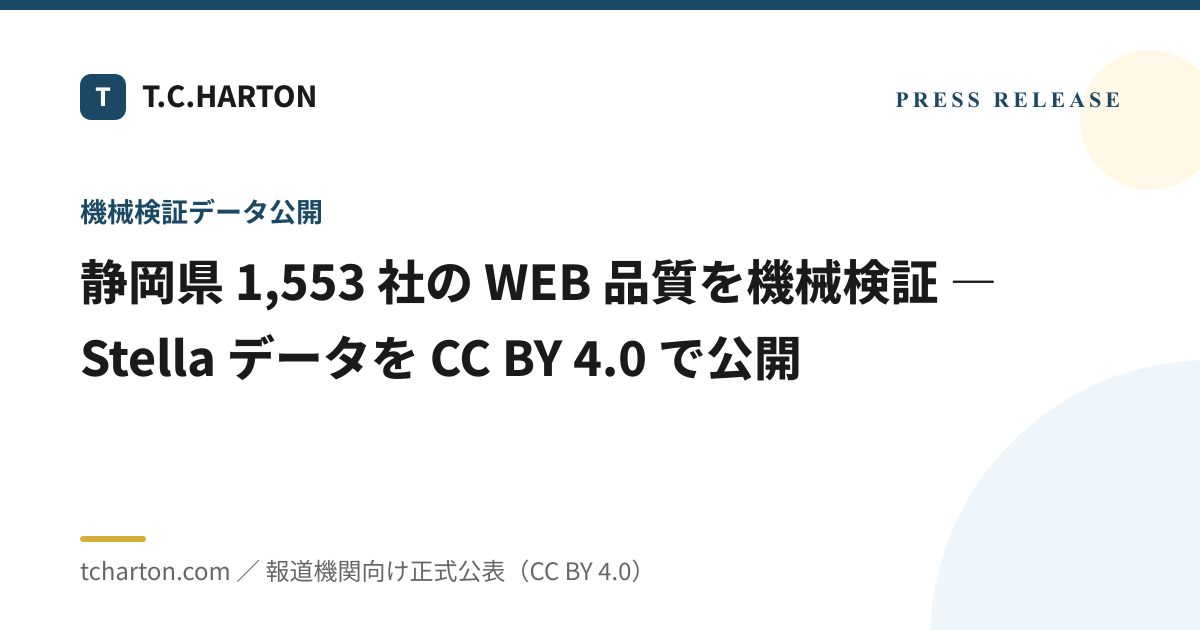
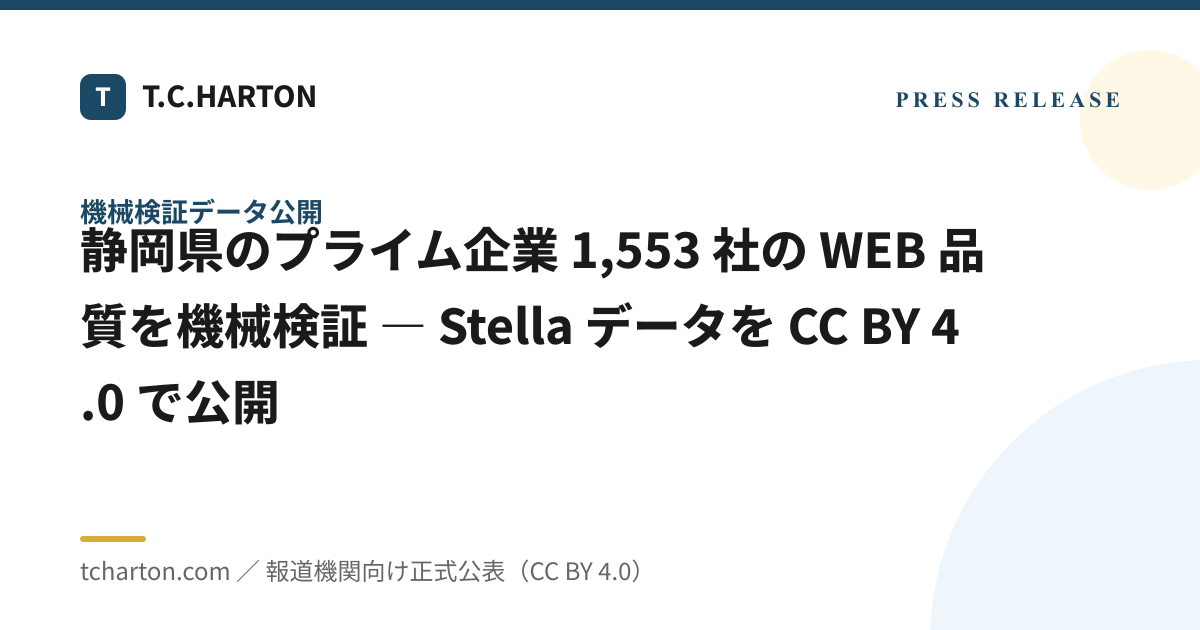
fix(content): プレスリリース 1,553 = プライム抽出 明示 + 壊れた Insights リンク 全修正
代表指摘の 2 点を正確に修正：

## 1. プレスリリース：1,553 社 = プライム企業数の明記
- 「静岡県内 11 業種 1,553 社」→「静岡県内 11 業種から抽出したプライム（主要）企業 1,553 社」
- title / description / og:* / twitter:* / NewsArticle JSON-LD / Dataset JSON-LD
  パンくず / hero h1 / 結論ボックス / 本文 / 公開データ説明 すべて整合
- ハブ /press/ のカードも同期修正
- OGP 画像も再生成（タイトル変更反映）
- プライム抽出の定義も併記（各業種で一定の事業規模・知名度を満たす主要企業）

## 2. 壊れた Insights リンク 全修正（404 解消）
代表指摘のスクリーンショット (Numazu LP) は「local-seo-for-shizuoka」が 404。
Areas 全 7 都市 + problems/no-mobile に同様の存在しない slug が散在していた。
実在する Insights 31 記事の slug に置き換え：

- local-seo-for-shizuoka  → local-seo-guide
- web-for-shop-owners     → longtail-seo
- mobile-first-design     → accessibility-wcag22
- core-web-vitals-2025    → core-web-vitals
- image-format-optimization → image-font-optimization
- wcag-22-quick-start     → accessibility-wcag22

修正ファイル：
- gen-areas.js（テンプレ）+ areas/{6 cities} 再生成
- areas/numazu/index.html（手書きを直接修正）
- problems/no-mobile/index.html（4 リンク修正）

機械検証：全 18 種の /insights/ リンクが実在ファイルに解決することを確認済。

spec-checker: PASS:9473 / FAIL:0 / 100% S-RANK 維持

Changed region(s): [[0.0617, 0.3619, 0.8325, 0.6937]]

diff --git a/press/2026-05-stella-shizuoka-1553/index.html b/press/2026-05-stella-shizuoka-1553/index.html
@@ -4,25 +4,25 @@
   <meta charset="UTF-8">
   <meta name="viewport" content="width=device-width, initial-scale=1.0">
   <script src="/dist/scripts/js-marker.js?v=202605120100"></script>
-  <title>静岡県 1,553 社の WEB 品質を機械検証 — Stella データを CC BY 4.0 で公開｜T.C.HARTON プレスリリース</title>
-  <meta name="description" content="沼津市の T.C.HARTON は、静岡県内 11 業種 1,553 社の WEB サイト品質を 4 軸機械検証した結果を、Stella サブセクション内で CC BY 4.0 ライセンスで公開しました。中央スコア・業種別中央値・致命的 NG 比率を集計データとして提供します。">
+  <title>静岡県のプライム企業 1,553 社の WEB 品質を機械検証 — Stella データを CC BY 4.0 で公開｜T.C.HARTON プレスリリース</title>
+  <meta name="description" content="沼津市の T.C.HARTON は、静岡県内 11 業種から抽出したプライム（主要）企業 1,553 社の WEB サイト品質を 4 軸機械検証した結果を、Stella サブセクション内で CC BY 4.0 ライセンスで公開しました。中央スコア・業種別中央値・致命的 NG 比率を集計データとして提供します。">
   <meta name="author" content="大内 達也">
 
-  <meta property="og:title" content="静岡県 1,553 社の WEB 品質を機械検証 — Stella データを CC BY 4.0 で公開｜T.C.HARTON プレスリリース">
-  <meta property="og:description" content="沼津市の T.C.HARTON は、静岡県内 11 業種 1,553 社の WEB サイト品質を 4 軸機械検証した結果を、Stella サブセクション内で CC BY 4.0 ライセンスで公開しました。中央スコア・業種別中央値・致命的 NG 比率を集計データとして提供します。">
+  <meta property="og:title" content="静岡県のプライム企業 1,553 社の WEB 品質を機械検証 — Stella データを CC BY 4.0 で公開｜T.C.HARTON プレスリリース">
+  <meta property="og:description" content="沼津市の T.C.HARTON は、静岡県内 11 業種から抽出したプライム（主要）企業 1,553 社の WEB サイト品質を 4 軸機械検証した結果を、Stella サブセクション内で CC BY 4.0 ライセンスで公開しました。中央スコア・業種別中央値・致命的 NG 比率を集計データとして提供します。">
   <meta property="og:type" content="article">
   <meta property="og:url" content="https://tcharton.com/press/2026-05-stella-shizuoka-1553/">
   <meta property="og:image" content="https://tcharton.com/press/2026-05-stella-shizuoka-1553/ogp.png">
   <meta property="og:image:width" content="1200">
   <meta property="og:image:height" content="630">
   <meta property="og:image:type" content="image/png">
-  <meta property="og:image:alt" content="静岡県 1,553 社の WEB 品質機械検証結果公開 — T.C.HARTON Press Release">
+  <meta property="og:image:alt" content="静岡県のプライム企業 1,553 社の WEB 品質機械検証結果公開 — T.C.HARTON Press Release">
   <meta property="og:site_name" content="T.C.HARTON">
   <meta property="og:locale" content="ja_JP">
 
   <meta name="twitter:card" content="summary_large_image">
-  <meta name="twitter:title" content="静岡県 1,553 社の WEB 品質を機械検証 — Stella データを CC BY 4.0 で公開｜T.C.HARTON プレスリリース">
-  <meta name="twitter:description" content="沼津市の T.C.HARTON は、静岡県内 11 業種 1,553 社の WEB サイト品質を 4 軸機械検証した結果を、Stella サブセクション内で CC BY 4.0 ライセンスで公開しました。">
+  <meta name="twitter:title" content="静岡県のプライム企業 1,553 社の WEB 品質を機械検証 — Stella データを CC BY 4.0 で公開｜T.C.HARTON プレスリリース">
+  <meta name="twitter:description" content="沼津市の T.C.HARTON は、静岡県内 11 業種から抽出したプライム（主要）企業 1,553 社の WEB サイト品質を 4 軸機械検証した結果を、Stella サブセクション内で CC BY 4.0 ライセンスで公開しました。">
   <meta name="twitter:image" content="https://tcharton.com/press/2026-05-stella-shizuoka-1553/ogp.png">
 
   <meta name="theme-color" content="#FFFFFF">
@@ -43,14 +43,14 @@
   {"@context":"https://schema.org","@type":"BreadcrumbList","itemListElement":[
     {"@type":"ListItem","position":1,"name":"ホーム","item":"https://tcharton.com/"},
     {"@type":"ListItem","position":2,"name":"プレスリリース","item":"https://tcharton.com/press/"},
-    {"@type":"ListItem","position":3,"name":"静岡県 1,553 社の WEB 品質を機械検証 — Stella データを CC BY 4.0 で公開","item":"https://tcharton.com/press/2026-05-stella-shizuoka-1553/"}
+    {"@type":"ListItem","position":3,"name":"静岡県のプライム企業 1,553 社の WEB 品質を機械検証 — Stella データを CC BY 4.0 で公開","item":"https://tcharton.com/press/2026-05-stella-shizuoka-1553/"}
   ]}
   </script>
   <script type="application/ld+json">
-  {"@context":"https://schema.org","@type":"NewsArticle","@id":"https://tcharton.com/press/2026-05-stella-shizuoka-1553/#newsarticle","headline":"静岡県 1,553 社の WEB 品質を機械検証 — Stella データを CC BY 4.0 で公開","description":"沼津市の T.C.HARTON は、静岡県内 11 業種 1,553 社の WEB サイト品質を 4 軸機械検証した結果を、Stella サブセクション内で CC BY 4.0 ライセンスで公開しました。中央スコア・業種別中央値・致命的 NG 比率を集計データとして提供します。","datePublished":"2026-05-15T10:00:00+09:00","dateModified":"2026-05-15T10:00:00+09:00","author":{"@type":"Organization","name":"T.C.HARTON","url":"https://tcharton.com/"},"publisher":{"@id":"https://tcharton.com/#organization"},"image":"https://tcharton.com/press/2026-05-stella-shizuoka-1553/ogp.png","url":"https://tcharton.com/press/2026-05-stella-shizuoka-1553/","mainEntityOfPage":"https://tcharton.com/press/2026-05-stella-shizuoka-1553/","articleSection":"プレスリリース","inLanguage":"ja"}
+  {"@context":"https://schema.org","@type":"NewsArticle","@id":"https://tcharton.com/press/2026-05-stella-shizuoka-1553/#newsarticle","headline":"静岡県のプライム企業 1,553 社の WEB 品質を機械検証 — Stella データを CC BY 4.0 で公開","description":"沼津市の T.C.HARTON は、静岡県内 11 業種から抽出したプライム（主要）企業 1,553 社の WEB サイト品質を 4 軸機械検証した結果を、Stella サブセクション内で CC BY 4.0 ライセンスで公開しました。中央スコア・業種別中央値・致命的 NG 比率を集計データとして提供します。","datePublished":"2026-05-15T10:00:00+09:00","dateModified":"2026-05-15T10:00:00+09:00","author":{"@type":"Organization","name":"T.C.HARTON","url":"https://tcharton.com/"},"publisher":{"@id":"https://tcharton.com/#organization"},"image":"https://tcharton.com/press/2026-05-stella-shizuoka-1553/ogp.png","url":"https://tcharton.com/press/2026-05-stella-shizuoka-1553/","mainEntityOfPage":"https://tcharton.com/press/2026-05-stella-shizuoka-1553/","articleSection":"プレスリリース","inLanguage":"ja"}
   </script>
   <script type="application/ld+json">
-  {"@context":"https://schema.org","@type":"Dataset","@id":"https://tcharton.com/stella/#dataset","name":"静岡県 11 業種 1,553 社 WEB 品質機械検証データ","description":"静岡県内 11 業種・1,553 社の WEB サイトを 4 軸（パフォーマンス / SEO / アクセシビリティ / セキュリティ）で機械検証し、業種別中央値・致命的 NG 比率を集計したデータセット","license":"https://creativecommons.org/licenses/by/4.0/","creator":{"@id":"https://tcharton.com/#organization"},"datePublished":"2026-05-15","keywords":["WEB 品質","機械検証","静岡県","中小企業","Core Web Vitals","SEO","アクセシビリティ","セキュリティ"],"isAccessibleForFree":true,"url":"https://tcharton.com/stella/"}
+  {"@context":"https://schema.org","@type":"Dataset","@id":"https://tcharton.com/stella/#dataset","name":"静岡県プライム企業 1,553 社 WEB 品質機械検証データ","description":"静岡県内 11 業種から抽出したプライム（主要）企業 1,553 社の WEB サイトを 4 軸（パフォーマンス / SEO / アクセシビリティ / セキュリティ）で機械検証し、業種別中央値・致命的 NG 比率を集計したデータセット","license":"https://creativecommons.org/licenses/by/4.0/","creator":{"@id":"https://tcharton.com/#organization"},"datePublished":"2026-05-15","keywords":["WEB 品質","機械検証","静岡県","中小企業","プライム企業","Core Web Vitals","SEO","アクセシビリティ","セキュリティ"],"isAccessibleForFree":true,"url":"https://tcharton.com/stella/"}
   </script>
 
   <link rel="stylesheet" href="/dist/output.css?v=202605141500">
@@ -120,14 +120,14 @@
         <li aria-hidden="true">/</li>
         <li><a href="/press/" class="hover:text-teal-700 py-3 inline-block">プレスリリース</a></li>
         <li aria-hidden="true">/</li>
-        <li><span aria-current="page" class="text-dark-700">静岡県 1,553 社 機械検証データ公開</span></li>
+        <li><span aria-current="page" class="text-dark-700">静岡県プライム 1,553 社 機械検証データ公開</span></li>
       </ol>
     </nav>
 
     <article class="max-w-3xl mx-auto px-4 lg:px-8 py-12 lg:py-16 hero-content">
       <header>
         <p class="text-sm text-teal-700 font-display font-bold tracking-widest uppercase">Press Release ／ 機械検証データ公開</p>
-        <h1 class="mt-3 font-display text-3xl md:text-4xl lg:text-5xl font-extrabold text-dark-900 leading-tight tracking-tight">静岡県 1,553 社の WEB 品質を機械検証 — Stella データを CC BY 4.0 で公開</h1>
+        <h1 class="mt-3 font-display text-3xl md:text-4xl lg:text-5xl font-extrabold text-dark-900 leading-tight tracking-tight">静岡県のプライム企業 1,553 社の WEB 品質を機械検証 — Stella データを CC BY 4.0 で公開</h1>
         <p class="mt-4 text-xs text-dark-500">
           <time datetime="2026-05-15T10:00:00+09:00">2026 年 5 月 15 日 10:00 JST 公開</time>
           <span class="mx-2" aria-hidden="true">/</span>
@@ -139,17 +139,17 @@
 
       <div class="mt-8 bg-teal-50 border-l-4 border-teal-700 rounded-r-lg p-6">
         <p class="text-sm font-bold text-teal-800 mb-2">プレスリリース要旨</p>
-        <p class="text-dark-800 leading-relaxed">沼津市の <strong class="text-dark-900">T.C.HARTON（代表 大内 達也）</strong>は、2026 年 4 月から実施した静岡県内 11 業種 <strong class="text-dark-900">1,553 社</strong>の WEB サイト品質を 4 軸（パフォーマンス / SEO / アクセシビリティ / セキュリティ）で機械検証した結果を、<strong class="text-dark-900">Stella サブセクション</strong>内で <strong class="text-dark-900">Creative Commons Attribution 4.0 International（CC BY 4.0）</strong>ライセンスとして公開しました。地域の中小企業が自社サイトの位置づけを把握できる、独立第三者による集計データです。</p>
+        <p class="text-dark-800 leading-relaxed">沼津市の <strong class="text-dark-900">T.C.HARTON（代表 大内 達也）</strong>は、2026 年 4 月から実施した静岡県内 11 業種から抽出した<strong class="text-dark-900">プライム（主要）企業 1,553 社</strong>の WEB サイト品質を 4 軸（パフォーマンス / SEO / アクセシビリティ / セキュリティ）で機械検証した結果を、<strong class="text-dark-900">Stella サブセクション</strong>内で <strong class="text-dark-900">Creative Commons Attribution 4.0 International（CC BY 4.0）</strong>ライセンスとして公開しました。プライム企業とは、各業種で一定の事業規模・知名度を満たす主要企業を意味し、当該業種の品質ベンチマークとして妥当な母集団です。地域の中小企業が自社サイトの位置づけを把握できる、独立第三者による集計データです。</p>
       </div>
 
       <section aria-label="本文" class="mt-12 space-y-6 text-dark-700 leading-relaxed">
         <p><strong class="text-dark-900">＜本文＞</strong></p>
-        <p>WEB 制作・AI 予測サービスを提供する <strong class="text-dark-900">T.C.HARTON</strong>（所在地：静岡県沼津市大岡 2690、代表：大内 達也）は、2026 年 5 月 15 日、独自に開発した機械検証エンジン「Stella Scanner」を用いて、静岡県内の 11 業種 1,553 社の WEB サイト品質を 4 軸で評価した結果を、<a href="/stella/" class="text-teal-700 underline hover:text-teal-500">Stella サブセクション</a>内で公開しました。</p>
+        <p>WEB 制作・AI 予測サービスを提供する <strong class="text-dark-900">T.C.HARTON</strong>（所在地：静岡県沼津市大岡 2690、代表：大内 達也）は、2026 年 5 月 15 日、独自に開発した機械検証エンジン「Stella Scanner」を用いて、静岡県内 11 業種から抽出したプライム（主要）企業 1,553 社の WEB サイト品質を 4 軸で評価した結果を、<a href="/stella/" class="text-teal-700 underline hover:text-teal-500">Stella サブセクション</a>内で公開しました。<strong class="text-dark-900">プライム抽出</strong>とは、各業種で一定の事業規模・知名度を満たす主要企業群を意味します。</p>
         <p>本データは <strong class="text-dark-900">CC BY 4.0 ライセンス</strong>のもとで自由に利用可能で、出典を明記すれば商用・非商用を問わず再利用・引用・再配布できます。個別企業名は<strong class="text-dark-900">非公開</strong>とし、業種別の中央値・上位値・致命的 NG 比率といった集計データのみを提供します。</p>
 
         <h2 class="font-display text-2xl font-bold text-dark-900 mt-10">公開データの主な内容</h2>
         <div class="space-y-2 text-dark-700">
-          <p>・<strong class="text-dark-900">対象</strong>：静岡県内 11 業種 1,553 社の WEB サイト</p>
+          <p>・<strong class="text-dark-900">対象</strong>：静岡県内 11 業種から抽出したプライム（主要）企業 1,553 社の WEB サイト</p>
           <p>・<strong class="text-dark-900">評価軸</strong>：パフォーマンス（Core Web Vitals）/ SEO / アクセシビリティ / セキュリティの 4 軸</p>
           <p>・<strong class="text-dark-900">集計指標</strong>：業種別中央スコア / 業種別上位値 / 致命的 NG 検出率 / ★ 認定取得率</p>
           <p>・<strong class="text-dark-900">公開形式</strong>：HTML 集計表（Stella サブセクション）+ 機械可読 Dataset（JSON-LD）</p>

diff --git a/problems/no-mobile/index.html b/problems/no-mobile/index.html
@@ -279,7 +279,7 @@
           <p>Sticky CTA をモバイルレイアウトのデフォルトに含め、業種別に「電話 / 問い合わせ / 予約」を 1 タップで実行できる導線を実装しています。</p>
         </div>
         <div class="mt-6 callout-highlight rounded-r-lg p-5">
-          <p class="text-sm text-dark-700 leading-relaxed"><strong class="text-dark-900">このサイト自体が実証です。</strong>tcharton.com は CWV 全 GOOD、PageSpeed Insights mobile 90+、WCAG 2.2 AA 準拠で運用しています。実装の根拠は <a href="/methodology/" class="text-teal-700 underline hover:text-teal-500">方法論ページ</a>と <a href="/insights/mobile-first-design/" class="text-teal-700 underline hover:text-teal-500">モバイルファースト設計記事</a>で全公開しています。</p>
+          <p class="text-sm text-dark-700 leading-relaxed"><strong class="text-dark-900">このサイト自体が実証です。</strong>tcharton.com は CWV 全 GOOD、PageSpeed Insights mobile 90+、WCAG 2.2 AA 準拠で運用しています。実装の根拠は <a href="/methodology/" class="text-teal-700 underline hover:text-teal-500">方法論ページ</a>と <a href="/insights/accessibility-wcag22/" class="text-teal-700 underline hover:text-teal-500">WCAG 2.2 アクセシビリティ記事</a>で全公開しています。</p>
         </div>
       </section>
 
@@ -312,10 +312,10 @@
       <section aria-label="関連 Insights 記事" class="mt-12">
         <h2 class="font-display text-xl lg:text-2xl font-bold text-dark-900">関連 Insights 記事</h2>
         <ul class="mt-4 space-y-2 text-sm">
-          <li><a href="/insights/mobile-first-design/" class="text-teal-700 underline hover:text-teal-500 py-2 inline-block">モバイルファースト設計の実装ガイド</a></li>
-          <li><a href="/insights/core-web-vitals-2025/" class="text-teal-700 underline hover:text-teal-500 py-2 inline-block">Core Web Vitals 2025 — 合格基準と改善手順</a></li>
-          <li><a href="/insights/image-format-optimization/" class="text-teal-700 underline hover:text-teal-500 py-2 inline-block">WebP / AVIF への移行 — 30-50% 軽量化</a></li>
-          <li><a href="/insights/wcag-22-quick-start/" class="text-teal-700 underline hover:text-teal-500 py-2 inline-block">WCAG 2.2 クイックスタート — 中小企業向け</a></li>
+          <li><a href="/insights/accessibility-wcag22/" class="text-teal-700 underline hover:text-teal-500 py-2 inline-block">WCAG 2.2 アクセシビリティ実装ガイド — 中小企業向け</a></li>
+          <li><a href="/insights/core-web-vitals/" class="text-teal-700 underline hover:text-teal-500 py-2 inline-block">Core Web Vitals — 合格基準と改善手順</a></li>
+          <li><a href="/insights/inp-deep-dive/" class="text-teal-700 underline hover:text-teal-500 py-2 inline-block">INP（Interaction to Next Paint）詳細解説</a></li>
+          <li><a href="/insights/image-font-optimization/" class="text-teal-700 underline hover:text-teal-500 py-2 inline-block">画像・フォント最適化 — WebP / AVIF / 遅延読み込み</a></li>
         </ul>
       </section>
 

diff --git a/areas/fuji/index.html b/areas/fuji/index.html
@@ -243,9 +243,9 @@
       <section id="section-4" aria-label="関連 Insights" class="mt-12">
         <h2 class="font-display text-2xl lg:text-3xl font-bold text-dark-900">4. 関連 Insights ／ Problem LP</h2>
         <ul class="mt-4 space-y-2 text-sm">
-          <li><a href="/insights/local-seo-for-shizuoka/" class="text-teal-700 underline hover:text-teal-500 py-2 inline-block">静岡県の中小企業向け ローカル SEO 実装ガイド</a></li>
+          <li><a href="/insights/local-seo-guide/" class="text-teal-700 underline hover:text-teal-500 py-2 inline-block">ローカル SEO 実装ガイド — 地方中小企業向け</a></li>
           <li><a href="/insights/google-business-profile/" class="text-teal-700 underline hover:text-teal-500 py-2 inline-block">Google ビジネスプロフィール — 地方事業者の必須設定</a></li>
-          <li><a href="/insights/web-for-shop-owners/" class="text-teal-700 underline hover:text-teal-500 py-2 inline-block">店舗事業者のための WEB 戦略 — 来店誘導と問合せ</a></li>
+          <li><a href="/insights/longtail-seo/" class="text-teal-700 underline hover:text-teal-500 py-2 inline-block">ロングテール SEO — 地域 × 業種で勝つ戦略</a></li>
           <li><a href="/services/web/industries/" class="text-teal-700 underline hover:text-teal-500 py-2 inline-block">業種別 WEB 制作ガイド</a></li>
         </ul>
       </section>

diff --git a/areas/fujinomiya/index.html b/areas/fujinomiya/index.html
@@ -243,9 +243,9 @@
       <section id="section-4" aria-label="関連 Insights" class="mt-12">
         <h2 class="font-display text-2xl lg:text-3xl font-bold text-dark-900">4. 関連 Insights ／ Problem LP</h2>
         <ul class="mt-4 space-y-2 text-sm">
-          <li><a href="/insights/local-seo-for-shizuoka/" class="text-teal-700 underline hover:text-teal-500 py-2 inline-block">静岡県の中小企業向け ローカル SEO 実装ガイド</a></li>
+          <li><a href="/insights/local-seo-guide/" class="text-teal-700 underline hover:text-teal-500 py-2 inline-block">ローカル SEO 実装ガイド — 地方中小企業向け</a></li>
           <li><a href="/insights/google-business-profile/" class="text-teal-700 underline hover:text-teal-500 py-2 inline-block">Google ビジネスプロフィール — 地方事業者の必須設定</a></li>
-          <li><a href="/insights/web-for-shop-owners/" class="text-teal-700 underline hover:text-teal-500 py-2 inline-block">店舗事業者のための WEB 戦略 — 来店誘導と問合せ</a></li>
+          <li><a href="/insights/longtail-seo/" class="text-teal-700 underline hover:text-teal-500 py-2 inline-block">ロングテール SEO — 地域 × 業種で勝つ戦略</a></li>
           <li><a href="/services/web/industries/" class="text-teal-700 underline hover:text-teal-500 py-2 inline-block">業種別 WEB 制作ガイド</a></li>
         </ul>
       </section>

diff --git a/areas/mishima/index.html b/areas/mishima/index.html
@@ -243,9 +243,9 @@
       <section id="section-4" aria-label="関連 Insights" class="mt-12">
         <h2 class="font-display text-2xl lg:text-3xl font-bold text-dark-900">4. 関連 Insights ／ Problem LP</h2>
         <ul class="mt-4 space-y-2 text-sm">
-          <li><a href="/insights/local-seo-for-shizuoka/" class="text-teal-700 underline hover:text-teal-500 py-2 inline-block">静岡県の中小企業向け ローカル SEO 実装ガイド</a></li>
+          <li><a href="/insights/local-seo-guide/" class="text-teal-700 underline hover:text-teal-500 py-2 inline-block">ローカル SEO 実装ガイド — 地方中小企業向け</a></li>
           <li><a href="/insights/google-business-profile/" class="text-teal-700 underline hover:text-teal-500 py-2 inline-block">Google ビジネスプロフィール — 地方事業者の必須設定</a></li>
-          <li><a href="/insights/web-for-shop-owners/" class="text-teal-700 underline hover:text-teal-500 py-2 inline-block">店舗事業者のための WEB 戦略 — 来店誘導と問合せ</a></li>
+          <li><a href="/insights/longtail-seo/" class="text-teal-700 underline hover:text-teal-500 py-2 inline-block">ロングテール SEO — 地域 × 業種で勝つ戦略</a></li>
           <li><a href="/services/web/industries/" class="text-teal-700 underline hover:text-teal-500 py-2 inline-block">業種別 WEB 制作ガイド</a></li>
         </ul>
       </section>

diff --git a/areas/nagaizumi/index.html b/areas/nagaizumi/index.html
@@ -243,9 +243,9 @@
       <section id="section-4" aria-label="関連 Insights" class="mt-12">
         <h2 class="font-display text-2xl lg:text-3xl font-bold text-dark-900">4. 関連 Insights ／ Problem LP</h2>
         <ul class="mt-4 space-y-2 text-sm">
-          <li><a href="/insights/local-seo-for-shizuoka/" class="text-teal-700 underline hover:text-teal-500 py-2 inline-block">静岡県の中小企業向け ローカル SEO 実装ガイド</a></li>
+          <li><a href="/insights/local-seo-guide/" class="text-teal-700 underline hover:text-teal-500 py-2 inline-block">ローカル SEO 実装ガイド — 地方中小企業向け</a></li>
           <li><a href="/insights/google-business-profile/" class="text-teal-700 underline hover:text-teal-500 py-2 inline-block">Google ビジネスプロフィール — 地方事業者の必須設定</a></li>
-          <li><a href="/insights/web-for-shop-owners/" class="text-teal-700 underline hover:text-teal-500 py-2 inline-block">店舗事業者のための WEB 戦略 — 来店誘導と問合せ</a></li>
+          <li><a href="/insights/longtail-seo/" class="text-teal-700 underline hover:text-teal-500 py-2 inline-block">ロングテール SEO — 地域 × 業種で勝つ戦略</a></li>
           <li><a href="/services/web/industries/" class="text-teal-700 underline hover:text-teal-500 py-2 inline-block">業種別 WEB 制作ガイド</a></li>
         </ul>
       </section>

diff --git a/areas/numazu/index.html b/areas/numazu/index.html
@@ -240,9 +240,9 @@
       <section id="section-4" aria-label="関連 Insights" class="mt-12">
         <h2 class="font-display text-2xl lg:text-3xl font-bold text-dark-900">4. 関連 Insights ／ Problem LP</h2>
         <ul class="mt-4 space-y-2 text-sm">
-          <li><a href="/insights/local-seo-for-shizuoka/" class="text-teal-700 underline hover:text-teal-500 py-2 inline-block">静岡県の中小企業向け ローカル SEO 実装ガイド</a></li>
+          <li><a href="/insights/local-seo-guide/" class="text-teal-700 underline hover:text-teal-500 py-2 inline-block">ローカル SEO 実装ガイド — 地方中小企業向け</a></li>
           <li><a href="/insights/google-business-profile/" class="text-teal-700 underline hover:text-teal-500 py-2 inline-block">Google ビジネスプロフィール — 地方事業者の必須設定</a></li>
-          <li><a href="/insights/web-for-shop-owners/" class="text-teal-700 underline hover:text-teal-500 py-2 inline-block">店舗事業者のための WEB 戦略 — 来店誘導と問合せ</a></li>
+          <li><a href="/insights/longtail-seo/" class="text-teal-700 underline hover:text-teal-500 py-2 inline-block">ロングテール SEO — 地域 × 業種で勝つ戦略</a></li>
           <li><a href="/services/web/industries/" class="text-teal-700 underline hover:text-teal-500 py-2 inline-block">業種別 WEB 制作ガイド（製造・水産・観光・物流）</a></li>
         </ul>
       </section>

diff --git a/areas/shimizu/index.html b/areas/shimizu/index.html
@@ -243,9 +243,9 @@
       <section id="section-4" aria-label="関連 Insights" class="mt-12">
         <h2 class="font-display text-2xl lg:text-3xl font-bold text-dark-900">4. 関連 Insights ／ Problem LP</h2>
         <ul class="mt-4 space-y-2 text-sm">
-          <li><a href="/insights/local-seo-for-shizuoka/" class="text-teal-700 underline hover:text-teal-500 py-2 inline-block">静岡県の中小企業向け ローカル SEO 実装ガイド</a></li>
+          <li><a href="/insights/local-seo-guide/" class="text-teal-700 underline hover:text-teal-500 py-2 inline-block">ローカル SEO 実装ガイド — 地方中小企業向け</a></li>
           <li><a href="/insights/google-business-profile/" class="text-teal-700 underline hover:text-teal-500 py-2 inline-block">Google ビジネスプロフィール — 地方事業者の必須設定</a></li>
-          <li><a href="/insights/web-for-shop-owners/" class="text-teal-700 underline hover:text-teal-500 py-2 inline-block">店舗事業者のための WEB 戦略 — 来店誘導と問合せ</a></li>
+          <li><a href="/insights/longtail-seo/" class="text-teal-700 underline hover:text-teal-500 py-2 inline-block">ロングテール SEO — 地域 × 業種で勝つ戦略</a></li>
           <li><a href="/services/web/industries/" class="text-teal-700 underline hover:text-teal-500 py-2 inline-block">業種別 WEB 制作ガイド</a></li>
         </ul>
       </section>

diff --git a/areas/susono/index.html b/areas/susono/index.html
@@ -243,9 +243,9 @@
       <section id="section-4" aria-label="関連 Insights" class="mt-12">
         <h2 class="font-display text-2xl lg:text-3xl font-bold text-dark-900">4. 関連 Insights ／ Problem LP</h2>
         <ul class="mt-4 space-y-2 text-sm">
-          <li><a href="/insights/local-seo-for-shizuoka/" class="text-teal-700 underline hover:text-teal-500 py-2 inline-block">静岡県の中小企業向け ローカル SEO 実装ガイド</a></li>
+          <li><a href="/insights/local-seo-guide/" class="text-teal-700 underline hover:text-teal-500 py-2 inline-block">ローカル SEO 実装ガイド — 地方中小企業向け</a></li>
           <li><a href="/insights/google-business-profile/" class="text-teal-700 underline hover:text-teal-500 py-2 inline-block">Google ビジネスプロフィール — 地方事業者の必須設定</a></li>
-          <li><a href="/insights/web-for-shop-owners/" class="text-teal-700 underline hover:text-teal-500 py-2 inline-block">店舗事業者のための WEB 戦略 — 来店誘導と問合せ</a></li>
+          <li><a href="/insights/longtail-seo/" class="text-teal-700 underline hover:text-teal-500 py-2 inline-block">ロングテール SEO — 地域 × 業種で勝つ戦略</a></li>
           <li><a href="/services/web/industries/" class="text-teal-700 underline hover:text-teal-500 py-2 inline-block">業種別 WEB 制作ガイド</a></li>
         </ul>
       </section>

diff --git a/gen-areas.js b/gen-areas.js
@@ -454,9 +454,9 @@ function tpl(slug, c) {
       <section id="section-4" aria-label="関連 Insights" class="mt-12">
         <h2 class="font-display text-2xl lg:text-3xl font-bold text-dark-900">4. 関連 Insights ／ Problem LP</h2>
         <ul class="mt-4 space-y-2 text-sm">
-          <li><a href="/insights/local-seo-for-shizuoka/" class="text-teal-700 underline hover:text-teal-500 py-2 inline-block">静岡県の中小企業向け ローカル SEO 実装ガイド</a></li>
+          <li><a href="/insights/local-seo-guide/" class="text-teal-700 underline hover:text-teal-500 py-2 inline-block">ローカル SEO 実装ガイド — 地方中小企業向け</a></li>
           <li><a href="/insights/google-business-profile/" class="text-teal-700 underline hover:text-teal-500 py-2 inline-block">Google ビジネスプロフィール — 地方事業者の必須設定</a></li>
-          <li><a href="/insights/web-for-shop-owners/" class="text-teal-700 underline hover:text-teal-500 py-2 inline-block">店舗事業者のための WEB 戦略 — 来店誘導と問合せ</a></li>
+          <li><a href="/insights/longtail-seo/" class="text-teal-700 underline hover:text-teal-500 py-2 inline-block">ロングテール SEO — 地域 × 業種で勝つ戦略</a></li>
           <li><a href="/services/web/industries/" class="text-teal-700 underline hover:text-teal-500 py-2 inline-block">業種別 WEB 制作ガイド</a></li>
         </ul>
       </section>

diff --git a/press/index.html b/press/index.html
@@ -131,8 +131,8 @@
             <p class="text-xs text-dark-500 font-display font-bold tracking-widest uppercase">2026 年 5 月 15 日</p>
             <p class="text-xs text-teal-700 font-display font-bold tracking-widest uppercase">機械検証データ公開</p>
           </div>
-          <h2 class="mt-3 font-display text-xl lg:text-2xl font-bold text-dark-900 group-hover:text-teal-700 leading-tight">静岡県 1,553 社の WEB 品質を機械検証した結果を CC BY 4.0 で公開</h2>
-          <p class="mt-3 text-sm text-dark-700 leading-relaxed">沼津市の T.C.HARTON が、Stella サブセクション内で静岡県内 11 業種 1,553 社の WEB サイト品質を 4 軸機械検証した結果を、CC BY 4.0 ライセンスで公開しました。中央スコア・業種別中央値・致命的 NG 比率等を集計データとして整理しています。</p>
+          <h2 class="mt-3 font-display text-xl lg:text-2xl font-bold text-dark-900 group-hover:text-teal-700 leading-tight">静岡県のプライム企業 1,553 社の WEB 品質を機械検証した結果を CC BY 4.0 で公開</h2>
+          <p class="mt-3 text-sm text-dark-700 leading-relaxed">沼津市の T.C.HARTON が、静岡県内 11 業種から抽出したプライム（主要）企業 1,553 社の WEB サイト品質を 4 軸機械検証した結果を、Stella サブセクション内で CC BY 4.0 ライセンスで公開しました。中央スコア・業種別中央値・致命的 NG 比率等を集計データとして整理しています。</p>
           <p class="mt-4 text-sm text-teal-700 font-bold group-hover:underline">プレスリリース全文を読む →</p>
         </a>
       </section>